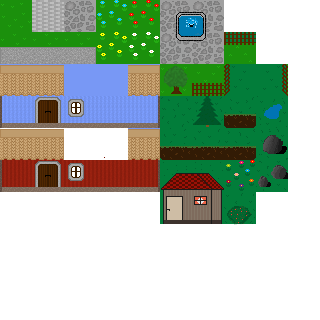
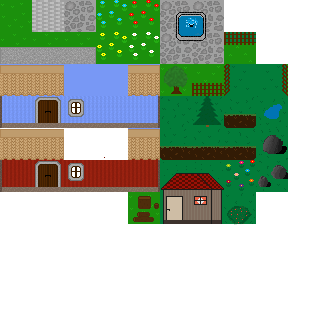
lumber

Changed region(s): [[0.375, 0.5938, 0.5, 0.7188]]

diff --git a/Tilerpg/HelloWorldLayer.m b/Tilerpg/HelloWorldLayer.m
@@ -631,6 +631,14 @@
                 }
                 }
             }
+            NSString *LumberWork = [properties valueForKey:@"Chop"];
+            if (LumberWork && [LumberWork compare:@"True"] == NSOrderedSame) {
+                if (energy>=25) {
+                energy-=25;
+                money+= Str * 3;
+                [player setTexture:[[CCTextureCache sharedTextureCache] addImage:@"gubbeJobbar.png"]]; 
+            }
+            }                       
             NSString *girlTalk = [properties valueForKey:@"GirlTalk"];
             if (girlTalk && [girlTalk compare:@"True"] == NSOrderedSame) {
                 [self showBubbla:ccp(x-winSize.width/4+(30*winSize.width/1024),y+winSize.height/4+(60*winSize.height/768))];
@@ -769,10 +777,11 @@
                 [player setTexture:[[CCTextureCache sharedTextureCache] addImage:@"gubbeSidanLeft2.png"]];
                 playerWalk=0;
                 if (bicycle==1) {
-                    [player setTexture:[[CCTextureCache sharedTextureCache] addImage:@"gubbeCyklarLeft2.png"]];
+              
+                [player setTexture:[[CCTextureCache sharedTextureCache] addImage:@"gubbeCyklarLeft2.png"]];
                 }
             }
-        }    
+        }
     } else {
         if (diff.y > 0) {
             jumpAble=0;
